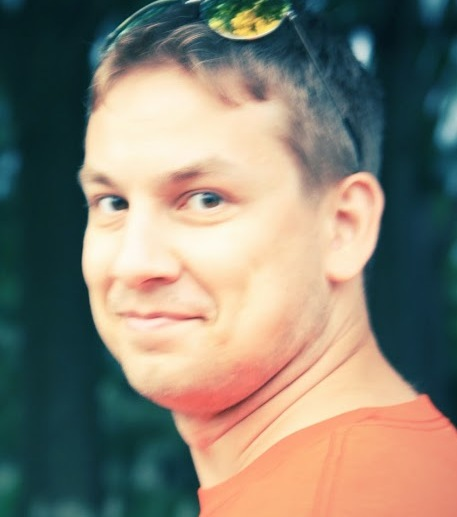
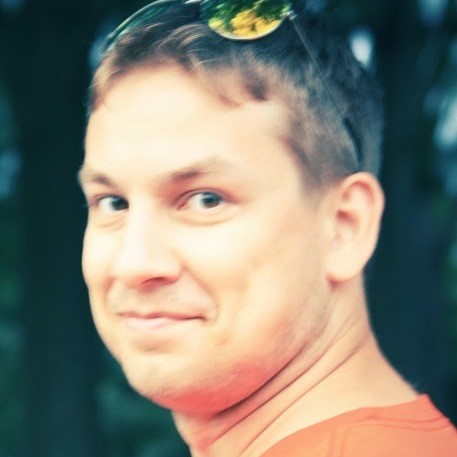
Changing my profile pic, description and making profile images look better

diff --git a/authors/index.md b/authors/index.md
@@ -9,13 +9,14 @@ search_omit: true
 {% for author in site.data.authors %}
 <h1 id="{{ author[0] }}">{{ author[1].name }}</h1>
 
-<footer class="entry-meta">
-	{% if author[1].avatar contains 'http' %}
+<footer class="entry-meta" style="width:150px">
+    {% if author[1].avatar contains 'http' %}
     	<img src="{{ author[1].avatar }}" class="bio-photo" alt="{{ author.name }} bio photo"></a>
     {% elsif author[1].avatar %}
-        <img src="{{ site.url }}/images/{{ author[1].avatar }}" class="bio-photo" alt="{{ author.name }} bio photo"></a>
+        <img src="{{ site.url }}/images/{{ author[1].avatar }}" class="bio-photo" alt="{{ author.name }} bio photo" width="150px" ></a>
     {% endif %}
     <span class="author vcard"><span class="fn">
+	{% if author[1].web %}<a href="{{ author[1].web }}" class="author-social" target="_blank"><i class="fa fa-fw fa-internet-explorer"></i> Web</a><br />{% endif %}	
 	{% if author[1].email %}<a href="mailto:{{ author[1].email }}" class="author-social" target="_blank"><i class="fa fa-fw fa-envelope-square"></i> Email</a>{% endif %}
 	{% if author[1].twitter %}<br><a href="http://twitter.com/{{ author[1].twitter }}" class="author-social" target="_blank"><i class="fa fa-fw fa-twitter-square"></i> Twitter</a>{% endif %}
     {% if author[1].facebook %}<br><a href="http://facebook.com/{{ author[1].facebook }}" class="author-social" target="_blank"><i class="fa fa-fw fa-facebook-square"></i> Facebook</a>{% endif %}
@@ -36,3 +37,4 @@ search_omit: true
 </footer>
 {{ author[1].longbio }}
 {% endfor %}
+
